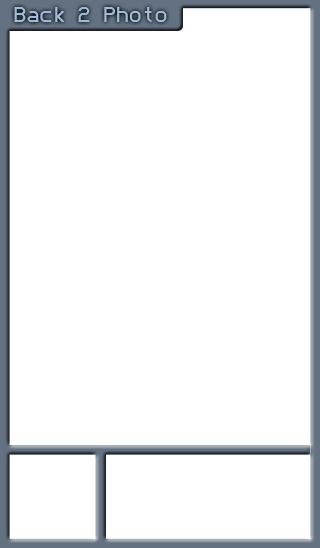
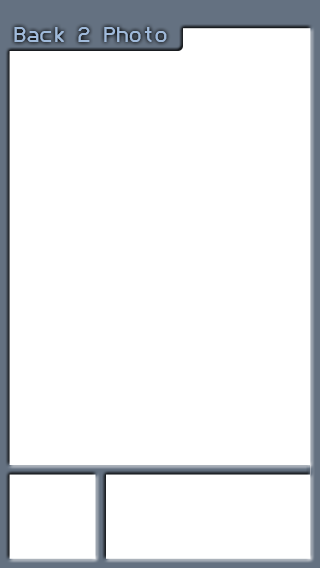
Edited to support no status bar displays.

Changed region(s): [[0.0, 0.0, 1.0, 0.0931], [0.0, 0.8066, 0.9688, 0.8376]]

diff --git a/Back2Photo/ViewController.m b/Back2Photo/ViewController.m
@@ -76,7 +76,7 @@
    }
    else
    {
-      imageDirection = [[UIImageView alloc] initWithFrame: CGRectMake(11.0f, 368.0f,
+      imageDirection = [[UIImageView alloc] initWithFrame: CGRectMake(11.0f, 388.0f,
                                                                       imageDirection.bounds.size.width,
                                                                       imageDirection.bounds.size.height)];
       imageDirection.image = [UIImage imageNamed: @"arrow.png"];
